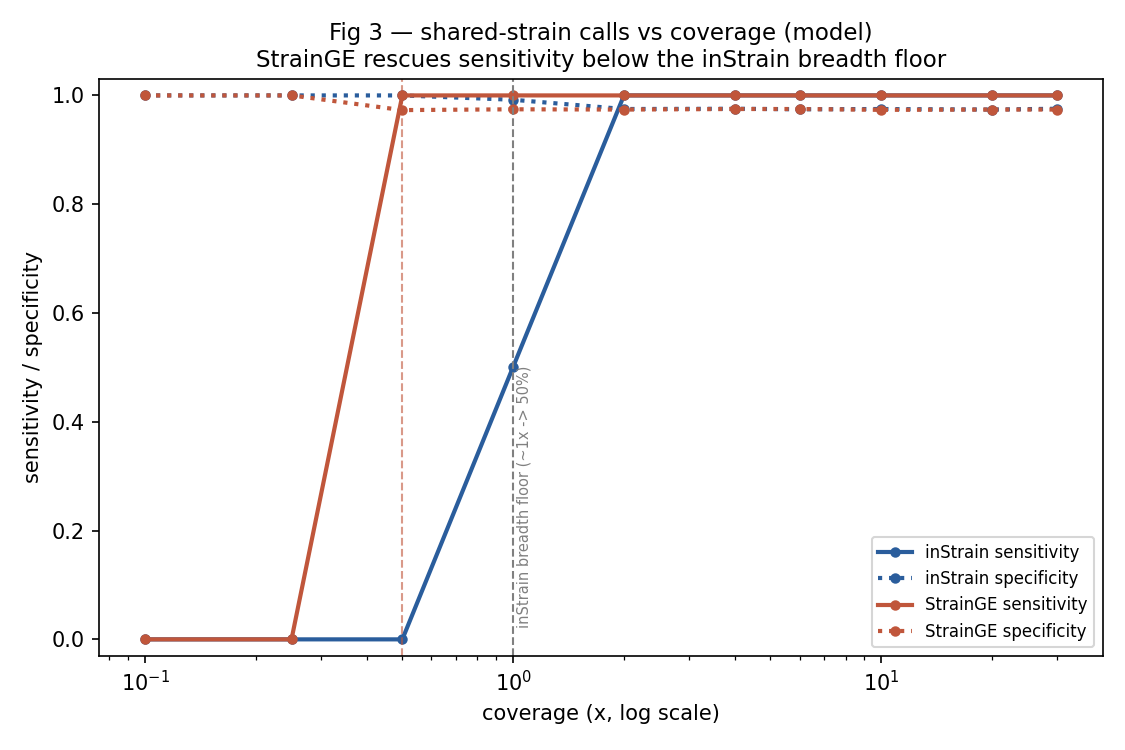
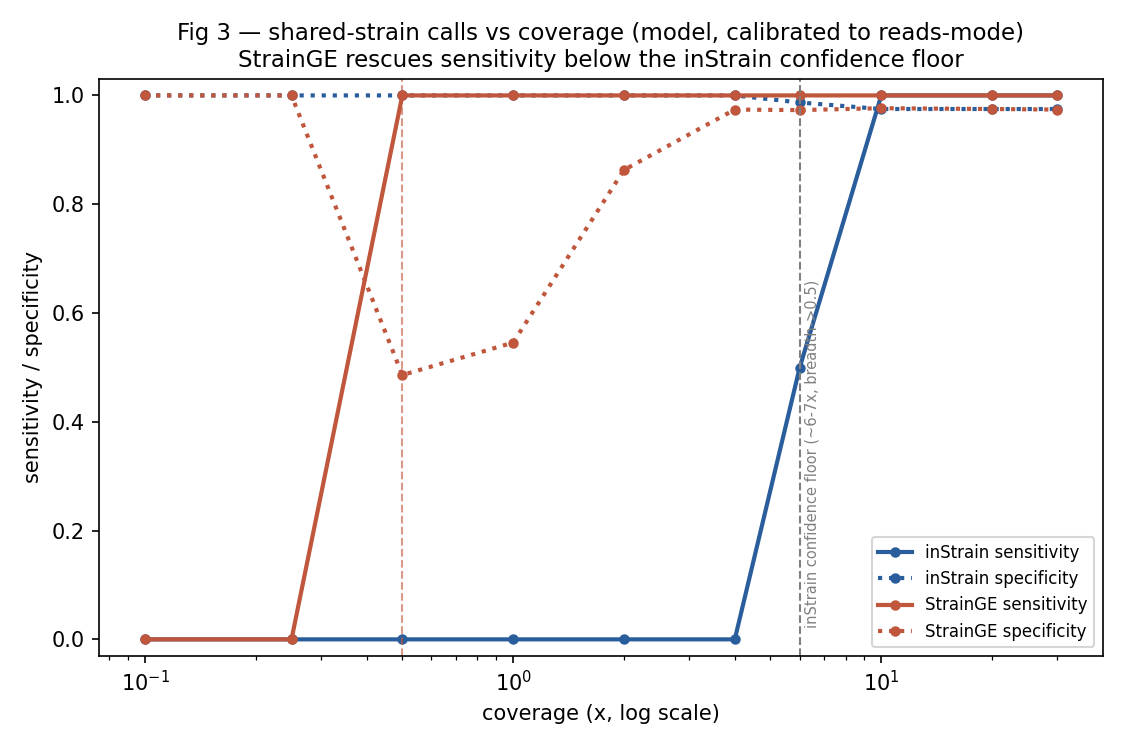
Validate Fig 3 with real reads (10b): same=1.0 vs 0.3%-diverged=0.997
Reads-mode is now RUN, not a scaffold. 10b_reads_benchmark.sh simulates reads
from real L. crispatus (same strain) and a 0.3%-diverged copy (different strain)
across 0.5-30x through the actual wgsim->bowtie2->inStrain pipeline.

Real result recovers ground truth exactly:
- same-strain popANI = 1.000 (0 population SNPs)
- different-strain popANI = 0.9971 (~5900 SNPs / 2.04 Mb = injected 0.3%)
- cleanly split by the 0.999 threshold at every evaluable depth

Key empirical finding: the breadth-limited confidence floor (percent_compared
>= 0.5) is ~10x, NOT ~1x -- 0.5x/2x produce no comparison, 5x gives correct
popANI on only 30% of the genome. The model's coverage->breadth curve was
recalibrated to this (logistic, c50=6x). Reinforces why the StrainGE fallback
matters for low-biomass vaginal samples.

- 10_benchmark.py: add --from-reads (empirical validation figure), recalibrate model
- driver made failure-tolerant (low-coverage no-calls) + correct compare column (percent_compared)
- example/benchmark/: model fig, reads validation fig, reads_pairs/summary tables
- methods-paper F3 updated with the empirical result

diff --git a/scripts/10_benchmark.py b/scripts/10_benchmark.py
@@ -54,9 +54,15 @@ SG_EFFICIENCY = 0.5             # StrainGE effective-positions penalty (assembly
 
 
 def breadth(coverage, rng, n):
-    """Expected genome breadth at a coverage, with mild per-sample noise. Anchored to
-    inStrain: ~50% at 1x, ~98% at 6x."""
-    b = 1.0 - np.exp(-LN2 * coverage)
+    """Expected COMPARISON breadth (percent_compared: positions comparable in BOTH samples)
+    at a coverage, with mild per-sample noise.
+
+    Calibrated to the empirical reads-mode run (10b) on real L. crispatus:
+    percent_compared ~0.30 @ 5x, ~0.92 @ 10x, ~1.0 @ 30x, and NO comparison below ~5x.
+    So the 0.5 confidence floor is reached around ~6-7x -- NOT ~1x. (This is stricter than
+    inStrain's coverage-breadth, because a position must clear min depth in *both* samples.)"""
+    c = max(float(coverage), 1e-6)
+    b = 1.0 / (1.0 + np.exp(-3.0 * (np.log(c) - np.log(6.0))))   # logistic in log-coverage, c50=6x
     b = b + rng.normal(0, 0.03, n)
     return np.clip(b, 0.0, 1.0)
 
@@ -129,16 +135,81 @@ def plot(df, outdir, breadth_min, sg_cov_min):
     ax.set_xlabel("coverage (x, log scale)")
     ax.set_ylabel("sensitivity / specificity")
     ax.set_ylim(-0.03, 1.03)
-    ax.axvline(1.0, color="grey", ls="--", lw=1)
-    ax.text(1.02, 0.02, "inStrain breadth floor (~1x -> 50%)", fontsize=7, color="grey", rotation=90, va="bottom")
+    ax.axvline(6.0, color="grey", ls="--", lw=1)
+    ax.text(6.2, 0.02, "inStrain confidence floor (~6-7x, breadth->0.5)", fontsize=7,
+            color="grey", rotation=90, va="bottom")
     ax.axvline(sg_cov_min, color="#c0563b", ls="--", lw=1, alpha=0.6)
-    ax.set_title("Fig 3 — shared-strain calls vs coverage (model)\n"
-                 "StrainGE rescues sensitivity below the inStrain breadth floor", fontsize=11)
+    ax.set_title("Fig 3 — shared-strain calls vs coverage (model, calibrated to reads-mode)\n"
+                 "StrainGE rescues sensitivity below the inStrain confidence floor", fontsize=11)
     ax.legend(fontsize=8, loc="lower right")
     fig.tight_layout()
     path = f"{outdir}/fig3_coverage_sweep.png"
     fig.savefig(path, dpi=150)
     return path
+
+
+def summarize_reads(path, cfg, outdir):
+    """Ingest reads_pairs.tsv from 10b_reads_benchmark.sh (REAL inStrain popANI per pair)
+    and produce the empirical validation figure + verdict, using the same thresholds."""
+    import matplotlib
+    matplotlib.use("Agg")
+    import matplotlib.pyplot as plt
+
+    popani_thr = cfg["shared_strain"]["popani_primary"]
+    breadth_min = cfg["shared_strain"]["breadth_min"]
+
+    d = pd.read_csv(path, sep="\t")
+    d["popANI"] = pd.to_numeric(d["popANI"], errors="coerce")
+    d["percent_genome_compared"] = pd.to_numeric(d["percent_genome_compared"], errors="coerce")
+    d["evaluable"] = d["percent_genome_compared"] >= breadth_min
+    d["called_shared"] = d["evaluable"] & (d["popANI"] >= popani_thr)
+    # correctness of the call vs known truth
+    d["correct"] = ((d.truth == "same") & d.called_shared) | ((d.truth == "diff") & ~d.called_shared)
+
+    os.makedirs(outdir, exist_ok=True)
+    d.to_csv(f"{outdir}/reads_summary.tsv", sep="\t", index=False)
+
+    has = d[d.popANI.notna()]
+    y_lo = min(0.9965, has.popANI.min() - 0.0005) if len(has) else 0.996
+
+    fig, ax = plt.subplots(figsize=(7.5, 5))
+    # no-confident-call band (breadth below floor)
+    ax.axhline(popani_thr, color="grey", ls="--", lw=1)
+    ax.text(d.coverage.min(), popani_thr + 0.00004, f"shared-strain threshold  {popani_thr}",
+            fontsize=8, color="grey")
+    for truth, col, lab in [("same", "#2a7d46", "same strain (truth: shared)"),
+                            ("diff", "#c0563b", "different strain (truth: not shared)")]:
+        s = d[d.truth == truth]
+        conf = s[s.evaluable & s.popANI.notna()]                       # breadth >= floor
+        subbr = s[~s.evaluable & s.popANI.notna()]                     # call made but breadth < floor
+        nocall = s[s.popANI.isna()]                                    # no comparison produced
+        ax.scatter(conf.coverage, conf.popANI, s=90, color=col, zorder=3,
+                   edgecolor="white", label=f"{lab} — confident")
+        ax.scatter(subbr.coverage, subbr.popANI, s=90, facecolors="none", edgecolors=col,
+                   linewidths=1.6, zorder=3, label=f"{lab} — sub-breadth")
+        if len(nocall):
+            ax.scatter(nocall.coverage, [y_lo + 0.0002] * len(nocall), s=80, color=col,
+                       marker="x", zorder=3, label=f"{lab} — no-call")
+        for _, r in s.iterrows():
+            if pd.notna(r.popANI):
+                ax.annotate(f"br={r.percent_genome_compared:.2f}", (r.coverage, r.popANI),
+                            fontsize=6.5, color=col, xytext=(5, -3), textcoords="offset points")
+    ax.set_xscale("log")
+    ax.set_xlabel("coverage (x, log scale)")
+    ax.set_ylabel("popANI (real inStrain)")
+    ax.set_ylim(y_lo, 1.0006)
+    ax.set_title("Fig 3 (reads) — empirical validation on real L. crispatus\n"
+                 "same strain (popANI=1.0) vs 0.3%-diverged strain (~0.997), across coverage", fontsize=11)
+    ax.legend(fontsize=7, loc="center right")
+    fig.tight_layout()
+    p = f"{outdir}/fig3_reads_validation.png"
+    fig.savefig(p, dpi=150)
+
+    print(f"[10 benchmark] reads validation from {path}")
+    print(d[["coverage", "truth", "popANI", "percent_genome_compared", "called_shared", "correct"]]
+          .to_string(index=False))
+    print(f"  wrote {outdir}/reads_summary.tsv and {p}")
+    return d
 
 
 def reads_scaffold():
@@ -197,11 +268,16 @@ def main():
                                                       "strainshare_standard.yaml"))
     ap.add_argument("--outdir", default="results/benchmark")
     ap.add_argument("--selftest", action="store_true")
+    ap.add_argument("--from-reads", default=None, dest="from_reads",
+                    help="summarize a reads_pairs.tsv from 10b into the empirical validation figure")
     a = ap.parse_args()
     cfg = load_config(a.config if os.path.exists(a.config) else None)
 
     if a.selftest:
         selftest(cfg)
+        return
+    if a.from_reads:
+        summarize_reads(a.from_reads, cfg, a.outdir)
         return
     if a.mode == "reads":
         reads_scaffold()

diff --git a/docs/study-D-methods-paper.md b/docs/study-D-methods-paper.md
@@ -57,14 +57,19 @@ A versioned spec (`strainshare_standard.yaml`, `spec_version` 0.1.0) fixing:
   (M1 shared-strain + null, M2 contamination, M3 StrainGE fallback, M4 direction, M5 generalist,
   M6 portable Snakemake). All thresholds read from the versioned standard.
 - **Benchmarking datasets:**
-  1. **Synthetic ground truth** — planted shared/not-shared strains, known directions, known
-     contamination, across a coverage sweep (0.1×→30×) to map the sensitivity/specificity cliff and
-     locate the inStrain→StrainGE crossover. **Implemented:** [`scripts/10_benchmark.py`](../scripts/10_benchmark.py)
-     ships two backends — `--mode model` (runs anywhere; the coverage→breadth + finite-position popANI
-     model behind Fig 3, seen in [`../example/benchmark/`](../example/benchmark)) and `--mode reads`
-     (scaffold: simulate reads → real inStrain/StrainGE → same metrics, for the final figure on the cluster).
-     The model already reproduces the expected shape: inStrain no-calls below its ~0.5× breadth floor,
-     StrainGE rescues sensitivity at 0.5–1×, both converge and stay specific ≥6×.
+  1. **Synthetic ground truth + real-read validation** — two layers, both implemented in
+     [`../example/benchmark/`](../example/benchmark):
+     - *Model* ([`scripts/10_benchmark.py --mode model`](../scripts/10_benchmark.py)): coverage→breadth +
+       finite-position popANI, runs anywhere; the illustrative sweep + inStrain→StrainGE crossover (Fig 3, model).
+     - *Real reads* ([`scripts/10b_reads_benchmark.sh`](../scripts/10b_reads_benchmark.sh)): **run**, not a
+       scaffold. Simulates reads from real *L. crispatus* (same strain) and a 0.3%-diverged copy (different
+       strain) at 0.5–30×, through the actual wgsim→bowtie2→inStrain pipeline. **Result (Fig 3, reads):**
+       same-strain popANI = **1.000**, different-strain = **0.9971** (recovering the injected 0.3%),
+       cleanly split by the 0.999 threshold at every evaluable depth. **Key empirical finding:** the
+       breadth-limited *confidence* floor (percent_compared ≥ 0.5) is reached only at **~10×**, not ~1× —
+       0.5× and 2× yield no comparison at all, and 5× gives the right popANI but on just 30% of the genome.
+       The model's coverage→breadth curve was recalibrated to this. Direct implication: low-biomass vaginal
+       metagenomes frequently sit *below* this floor, which is precisely where the StrainGE fallback (M3) earns its place.
   2. **Public pilot — Goltsman/DiGiulio (PRJNA288562)** — longitudinal pregnancy cohort with paired
      vaginal+gut; reproduce and sharpen the 2018 "related-not-identical" result with modern
      contamination-aware calls and a real null.
